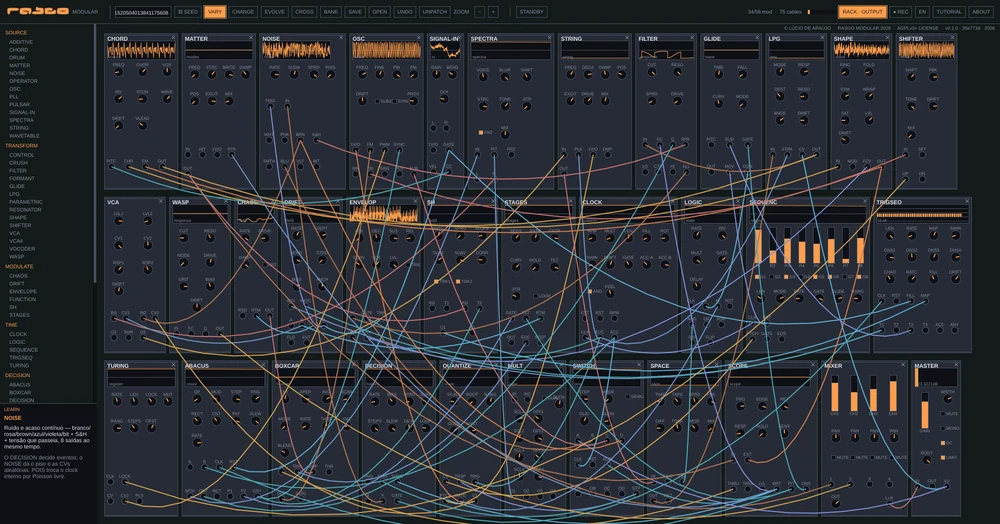
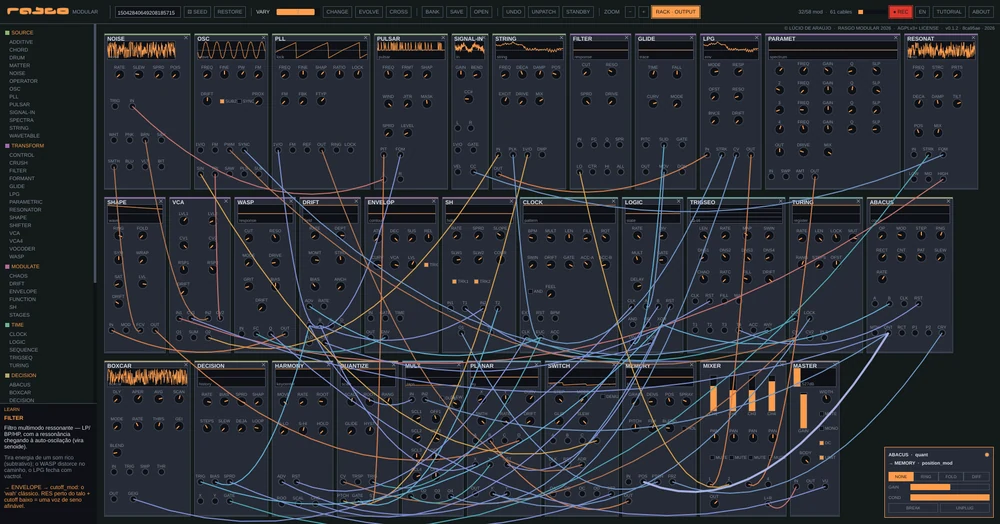
docs(imagem): captura nova do autor (3 out.) no site, README e compartilhamento
Faixas de família, cabeçalho em grupos, caixa do cabo aberta. Original em
screenshots/rack-completo-2026-10-03.png (sha256 1750d7ce…); o de 18 set.
fica, como fonte das versões anteriores. Legenda e texto alternativo
atualizados nos 4 idiomas.

diff --git a/website/fr.html b/website/fr.html
@@ -114,9 +114,9 @@
          srcset="assets/images/rack-1000.jpg 1000w, assets/images/rack-1600.jpg 1600w"
          sizes="(max-width: 62rem) 100vw, 62rem"
          width="1600" height="838" loading="lazy" decoding="async"
-         alt="Capture de Rasgo Modular en fonctionnement : un rack de trois rangées de dizaines de panneaux de modules sombres, traversé par environ soixante-dix câbles courbes orange et bleus. À gauche, la palette de modules par famille et la case LEARN ; en haut, la barre de commandes avec SEED, VARY et les autres." />
+         alt="Capture de Rasgo Modular en fonctionnement : un rack de trois rangées de panneaux de modules sombres, chacun avec une fine bande à la couleur de sa famille, traversé par des dizaines de câbles courbes orange et bleus. Un câble est allumé et sa fenêtre est ouverte dans le coin inférieur droit. À gauche, la palette de modules par famille et la case LEARN ; en haut, les boutons en groupes, avec SEED, VARIER et les autres." />
   </picture>
-  <figcaption>L'instrument en fonctionnement — un patch de seed avec 34 des 58 modules atteignant la sortie, et 75 câbles.</figcaption>
+  <figcaption>L’instrument en fonctionnement : un patch de seed avec 32 des 58 modules atteignant la sortie et 61 câbles, la fenêtre d’un câble ouverte dans le coin.</figcaption>
 </figure>
 
 <section class="section">

diff --git a/website/index.html b/website/index.html
@@ -114,9 +114,9 @@
          srcset="assets/images/rack-1000.jpg 1000w, assets/images/rack-1600.jpg 1600w"
          sizes="(max-width: 62rem) 100vw, 62rem"
          width="1600" height="838" loading="lazy" decoding="async"
-         alt="Captura do Rasgo Modular em execução: um rack de três fileiras com dezenas de módulos em painéis escuros, cobertos por cerca de setenta cabos curvos em laranja e azul que cruzam a tela de um lado a outro. À esquerda, a paleta de módulos por família e a caixa LEARN; no topo, a barra de comandos com SEED, VARY e os demais." />
+         alt="Captura do Rasgo Modular em execução: um rack de três fileiras de módulos em painéis escuros, cada um com uma faixa fina na cor da sua família, cruzado por dezenas de cabos curvos em laranja e azul. Um cabo está aceso e a caixa dele está aberta no canto inferior direito. À esquerda, a paleta de módulos por família e a caixa LEARN; no topo, os botões em grupos, com SEED, VARIA e os demais." />
   </picture>
-  <figcaption>O instrumento em execução — patch de seed com 34 dos 58 módulos alcançando a saída, e 75 cabos.</figcaption>
+  <figcaption>O instrumento em execução: um patch de seed com 32 dos 58 módulos chegando à saída e 61 cabos, com a caixa de um cabo aberta no canto.</figcaption>
 </figure>
 
 <section class="section">

diff --git a/website/es.html b/website/es.html
@@ -114,9 +114,9 @@
          srcset="assets/images/rack-1000.jpg 1000w, assets/images/rack-1600.jpg 1600w"
          sizes="(max-width: 62rem) 100vw, 62rem"
          width="1600" height="838" loading="lazy" decoding="async"
-         alt="Captura de Rasgo Modular en ejecución: un rack de tres filas con decenas de paneles de módulos oscuros, cruzado por unos setenta cables curvos naranjas y azules. A la izquierda, la paleta de módulos por familia y la caja LEARN; arriba, la barra de comandos con SEED, VARY y las demás." />
+         alt="Captura de Rasgo Modular en ejecución: un rack de tres filas de paneles de módulos oscuros, cada uno con una franja fina del color de su familia, cruzado por decenas de cables curvos naranjas y azules. Un cable está iluminado y su caja está abierta en la esquina inferior derecha. A la izquierda, la paleta de módulos por familia y la caja LEARN; arriba, los botones en grupos, con SEED, VARIAR y los demás." />
   </picture>
-  <figcaption>El instrumento en ejecución — un patch de seed con 34 de 58 módulos llegando a la salida, y 75 cables.</figcaption>
+  <figcaption>El instrumento en ejecución: un patch de seed con 32 de 58 módulos llegando a la salida y 61 cables, con la caja de un cable abierta en la esquina.</figcaption>
 </figure>
 
 <section class="section">

diff --git a/website/en.html b/website/en.html
@@ -114,9 +114,9 @@
          srcset="assets/images/rack-1000.jpg 1000w, assets/images/rack-1600.jpg 1600w"
          sizes="(max-width: 62rem) 100vw, 62rem"
          width="1600" height="838" loading="lazy" decoding="async"
-         alt="Screenshot of Rasgo Modular running: a three-row rack of dozens of dark module panels, crossed by some seventy curved cables in orange and blue spanning the screen. On the left, the module palette grouped by family and the LEARN box; along the top, the command bar with SEED, VARY and the rest." />
+         alt="Screenshot of Rasgo Modular running: a three-row rack of dark module panels, each with a thin stripe in its family colour, crossed by dozens of curved orange and blue cables. One cable is lit and its box is open in the bottom-right corner. On the left, the module palette grouped by family and the LEARN box; along the top, the buttons in groups, with SEED, VARY and the rest." />
   </picture>
-  <figcaption>The instrument running — a seed patch with 34 of 58 modules reaching the output, and 75 cables.</figcaption>
+  <figcaption>The instrument running: a seed patch with 32 of 58 modules reaching the output and 61 cables, with one cable's box open in the corner.</figcaption>
 </figure>
 
 <section class="section">

diff --git a/README.md b/README.md
@@ -1,6 +1,6 @@
 # Rasgo Modular
 
-![Rasgo Modular running: a three-row rack of modules crossed by some seventy orange and blue cables](screenshots/rack-completo-2026-09-18.png)
+![Rasgo Modular running: a three-row rack of modules, each with a thin stripe in its family colour, crossed by dozens of orange and blue cables; one cable is lit and its box is open in the bottom-right corner](screenshots/rack-completo-2026-10-03.png)
 
 **Website:** [lucioaraujo.github.io/rasgo-modular](https://lucioaraujo.github.io/rasgo-modular/) ·
 **Download:** [v0.1.1 release](https://github.com/lucioaraujo/rasgo-modular/releases/tag/v0.1.1) ·
